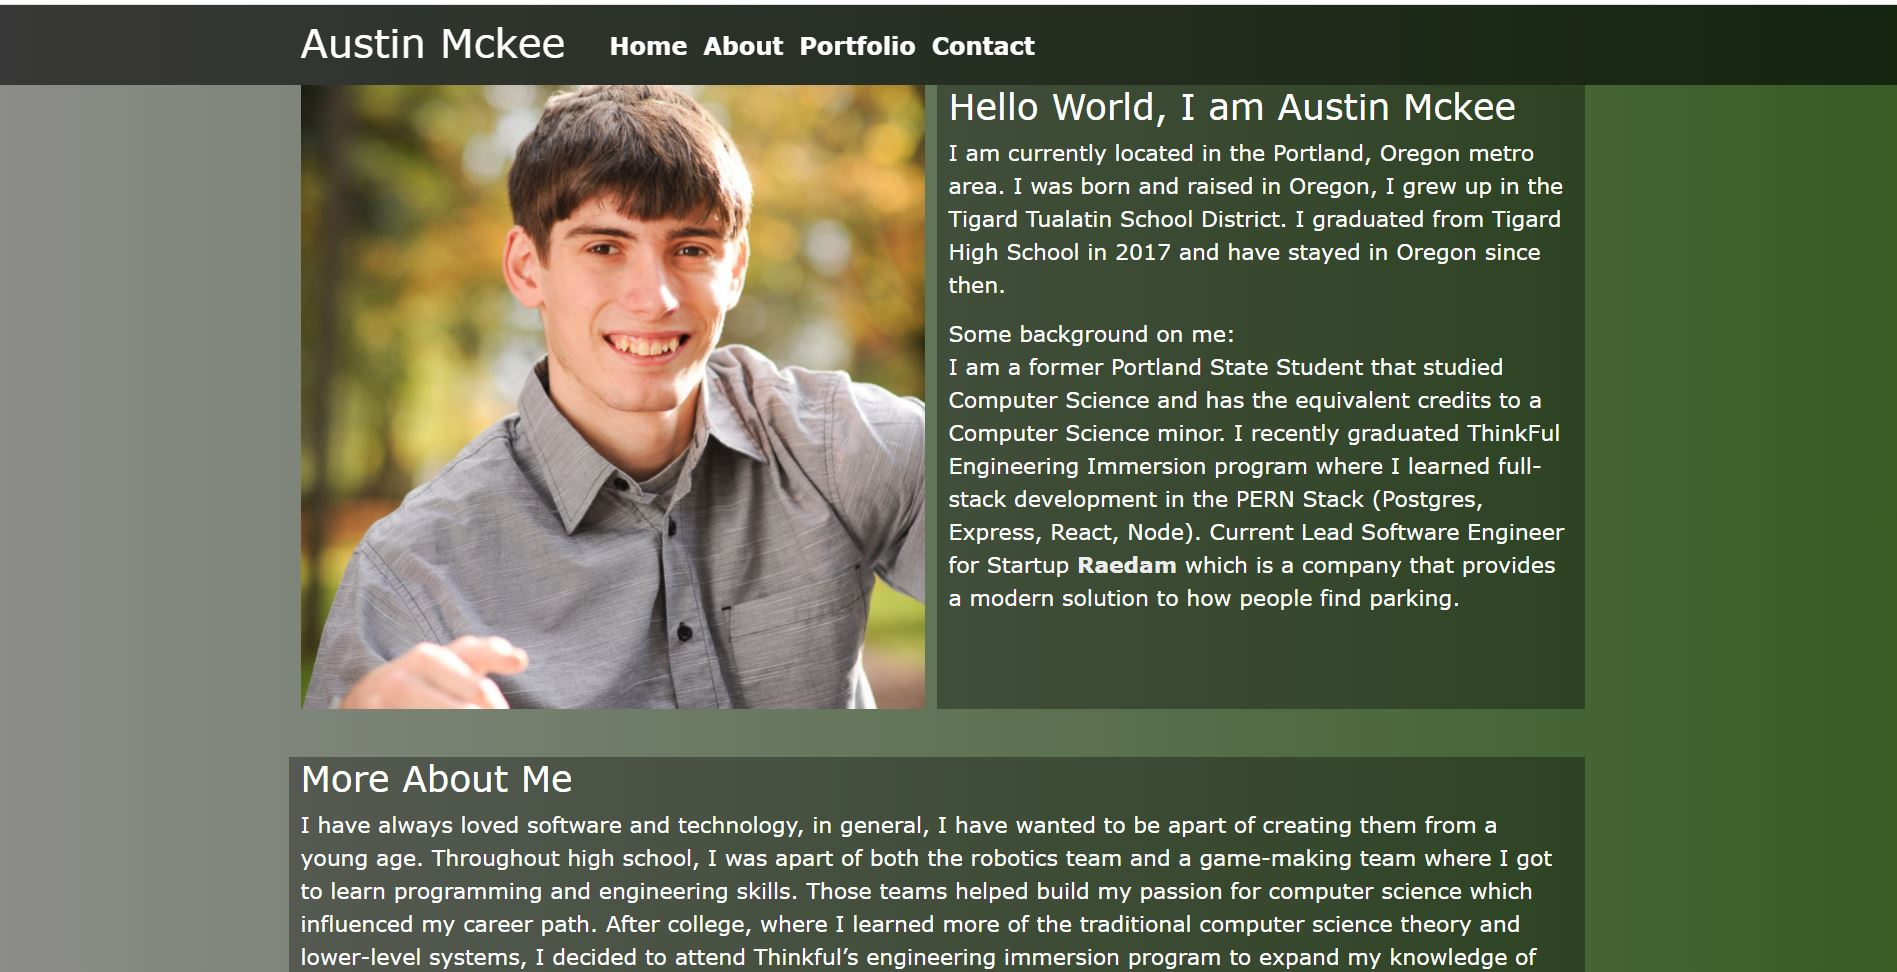
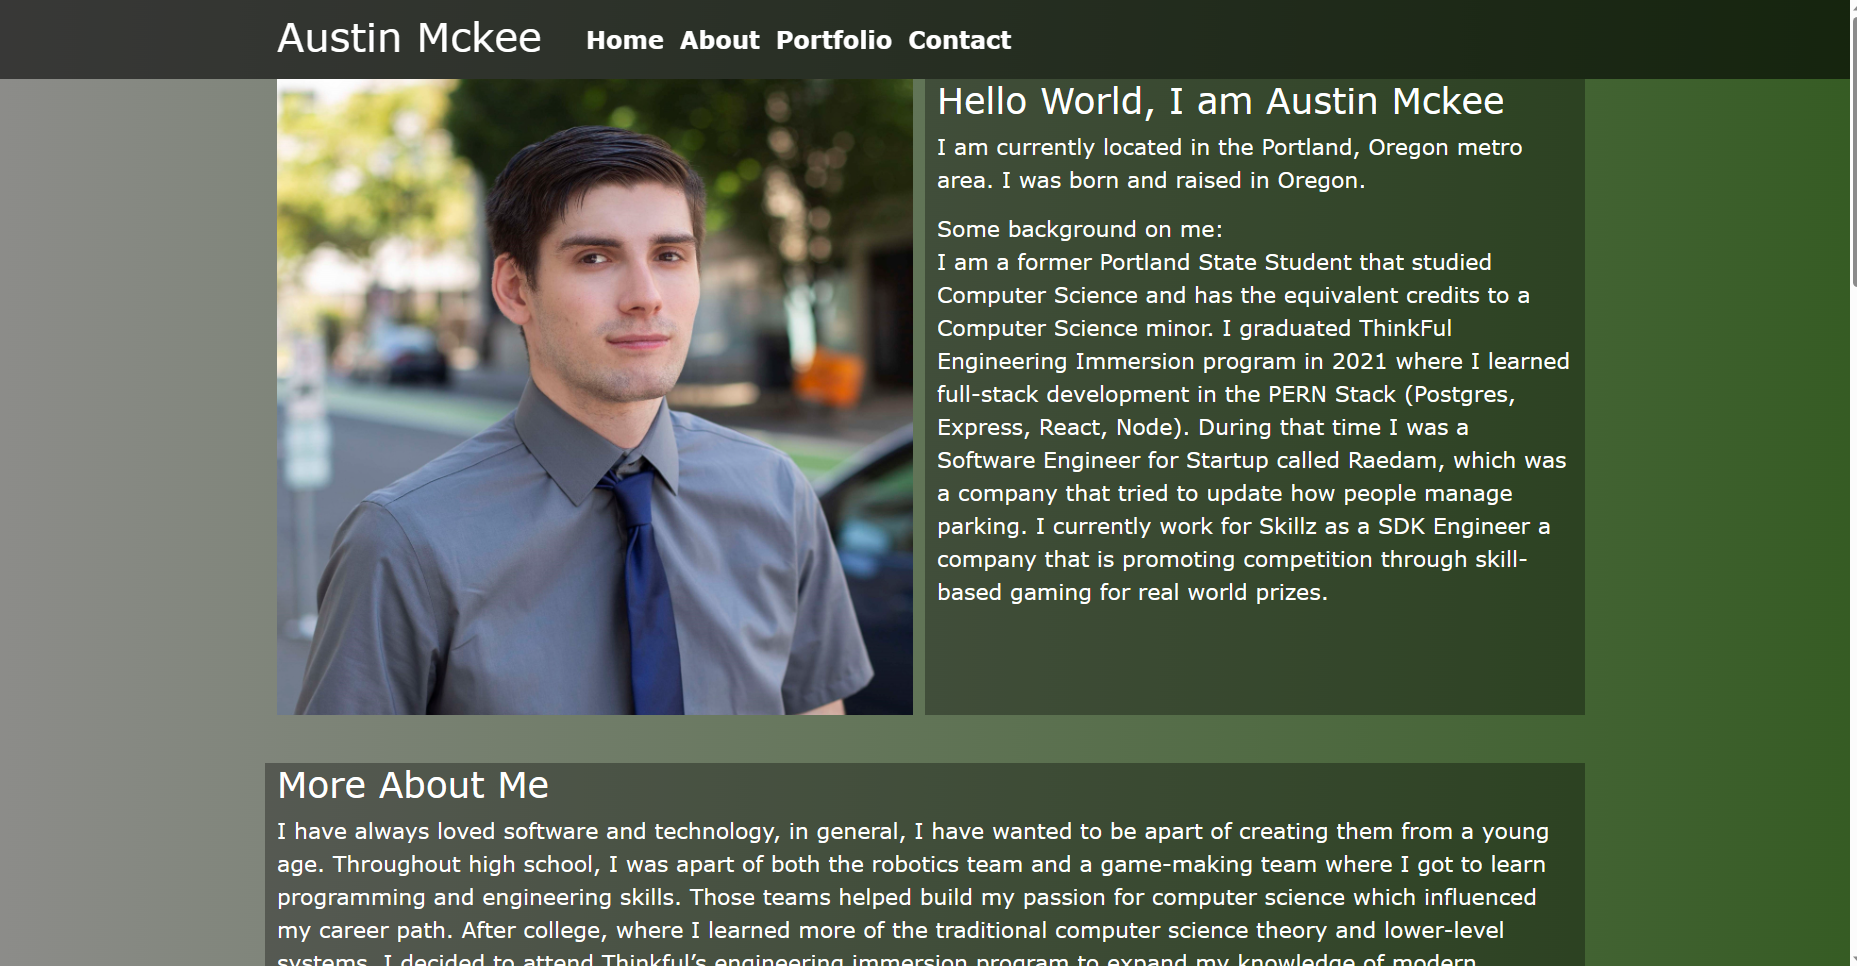
6/19/23 info update'

diff --git a/src/About.jsx b/src/About.jsx
@@ -6,37 +6,37 @@ export default function About() {
 					<h2>More About Me</h2>
 					<p>
 						{" "}
-						I have always loved software and technology, in general, I have
-						wanted to be apart of creating them from a young age. Throughout
-						high school, I was apart of both the robotics team and a game-making
-						team where I got to learn programming and engineering skills. Those
-						teams helped build my passion for computer science which influenced
-						my career path. After college, where I learned more of the
-						traditional computer science theory and lower-level systems, I
-						decided to attend Thinkful’s engineering immersion program to expand
-						my knowledge of modern industry standards in the software
-						engineering world giving me a more comprehensive education. I am
-						currently working with a group on a Startup where we are working
-						together to make a modern solution to improve the process of
-						parking. I currently am able to provide both frontend and backend
-						support as a full-stack developer.
+						I have always had a deep passion for software and technology. Since
+						a young age, I've wanted to be involved in their creation and
+						advancement. Throughout high school, I was a part of both the
+						robotics team and a game-making team where I got to learn
+						programming and engineering skills. Those teams helped build my
+						passion for computer science, which influenced my career path. After
+						college, where I learned more of the traditional computer science
+						theory and lower-level systems, I decided to attend Thinkful’s
+						engineering immersion program. This program helped me expand my
+						knowledge of modern industry standards in the software engineering
+						world, providing me with a more comprehensive education. During this
+						time I was working with a group on a Startup to make a modern
+						solution to improve the process of parking. Currently, I work as an
+						SDK Engineer at Skillz, where my role involves enhancing a mobile
+						SDK that enables game developers to create games on the Skillz
+						platform.
 					</p>
 					<p>
-						I enjoy finding better ways of solving problems and seeing how
-						different people solve the same problem. I benefit from working in
-						groups with other programmers that help me see different ways of
-						thinking about a problem so that the best solution for the user is
-						found. I would say that I am a software engineer that loves to
-						constantly be learning new ways to better solve problems.
+						I enjoy finding better ways to solve problems and working with other
+						programmers in groups to explore different perspectives. As a
+						software engineer, I constantly seek to learn new methods for
+						problem-solving so that the best solution for the user is found.
 					</p>
 					<p>
-						Outside of web development, I am very interested in technology in
-						general, especially the world of computer science. I am a pretty big
-						gamer as I own an Xbox, PlayStation, Switch, and Gaming Pc. Outside
-						of technology I love the world of sports specifically a big fan of
-						both the NFL and NBA. As we start to return to a world closer to
-						normal after Covid-19 my goal is to try and explore more of the
-						nature here in Oregon.
+						Outside of web and mobile development, I am very interested in
+						technology in general, especially the world of computer science. I
+						am a gamer, as I own an Xbox, PlayStation, Switch, and a Gaming PC.
+						Apart from technology, I have a deep passion for the world of
+						sports, particularly being a devoted fan of both the NFL and NBA. I
+						started getting into Magic: the Gathering, making some decks with my
+						roomate and going to some events at my local card shop.
 					</p>
 				</article>
 			</div>

diff --git a/src/Home.jsx b/src/Home.jsx
@@ -1,6 +1,6 @@
 import { Jumbotron } from "react-bootstrap";
 import "bootstrap/dist/css/bootstrap.min.css";
-import profileSquare from "./photos/profile_square.jpg";
+import profileSquare from "./photos/profile_square1.jpg";
 export default function Home() {
 	return (
 		<section className="container">
@@ -17,24 +17,20 @@ export default function Home() {
 					<article className=" text-white col-md-12 col-lg-6 col-xl-6 text-box">
 						<h2>Hello World, I am Austin Mckee</h2>
 						<p>
-							I am currently located in the Portland, Oregon metro area. I was
-							born and raised in Oregon, I grew up in the Tigard Tualatin School
-							District. I graduated from Tigard High School in 2017 and have
-							stayed in Oregon since then.
+							I am currently located in the Portland metro area where I was born
+							and raised.
 						</p>
 						<p>
 							{" "}
 							Some background on me: <br></br>I am a former Portland State
 							Student that studied Computer Science and has the equivalent
-							credits to a Computer Science minor. I recently graduated ThinkFul
-							Engineering Immersion program where I learned full-stack
+							credits to a Computer Science minor. I graduated ThinkFul
+							Engineering Immersion program in 2021 where I learned full-stack
 							development in the PERN Stack (Postgres, Express, React, Node).
-							Current Lead Software Engineer for Startup{" "}
-							<a href="https://www.raedam.co/services" target="_blank">
-								Raedam
-							</a>{" "}
-							which is a company that provides a modern solution to how people
-							find parking.
+							During that period, I worked as a Software Engineer at Raedam, a
+							startup aiming to revolutionize parking management. I currently
+							work for Skillz as a SDK Engineer a company that is promoting
+							competition through skill-based gaming for real world prizes.
 						</p>
 					</article>
 					{/* </div> */}

diff --git a/src/projectData.js b/src/projectData.js
@@ -1,8 +1,16 @@
-import placeHolder from "./photos/placeholder.png";
+import parkingManager from "./photos/parkingManager.png";
 import dashboard from "./photos/Dashboard.png";
 import flashcards from "./photos/flashcards.jpg";
-import portfolio from "./photos/portfolio.png"  
+import portfolio from "./photos/portfolio.png";
 export const projects = [
+	{
+		title: "Parking Manager",
+		image: parkingManager,
+		description: `Web appication to manage a parking stucture in realtime.\n Use Guest Login:\n Email: guest@ryankirkpatrick.net\n Password: guest1234`,
+		skills: "React/Bootstrap/Css",
+		gitLink: "https://github.com/RKirkpatrick/Generic-Sensor-Display",
+		projectLink: "https://parking.ryankirkpatrick.net/",
+	},
 	{
 		title: "Periodic Tables",
 		image: dashboard,
@@ -28,12 +36,4 @@ export const projects = [
 		gitLink: "https://github.com/hoostin/ReactPortfolio",
 		projectLink: "//www.austinmckee.net",
 	},
-	// {
-	// 	title: "Raedam",
-	// 	image: null,
-	// 	description: `Who doesn't love a fun recursion easter egg.`,
-	// 	skills: "React/Bootstrap/Css",
-	// 	gitLink: "https://github.com/hoostin/ReactPortfolio",
-	// 	projectLink: "https://www.austinmckee.net",
-	// },
 ];

diff --git a/src/Project.jsx b/src/Project.jsx
@@ -1,5 +1,6 @@
 import placeHolder from "./photos/placeholder.png";
 import "bootstrap/dist/css/bootstrap.min.css";
+import React from "react";
 export default function Project({
 	title,
 	image = placeHolder,
@@ -14,17 +15,22 @@ export default function Project({
 			<img src={image} alt="placeholder" className="  card-img-top "></img>
 			<h3 className="card-title">{title}</h3>
 			<p className="card-text">
-				{description}
+				{description.split("\n").map((line, index) => (
+					<React.Fragment key={index}>
+						{line}
+						<br />
+					</React.Fragment>
+				))}
 				<br />
 				Skills Used: {skills}
 				<br />
-				Github Link:{" "}
+				Github :{" "}
 				<a href={gitLink} target="_blank">
 					{" "}
 					Link
 				</a>
 				<br />
-				Project Link:
+				Project :
 				{projectLink ? (
 					<a href={projectLink} target="_blank">
 						{" "}
